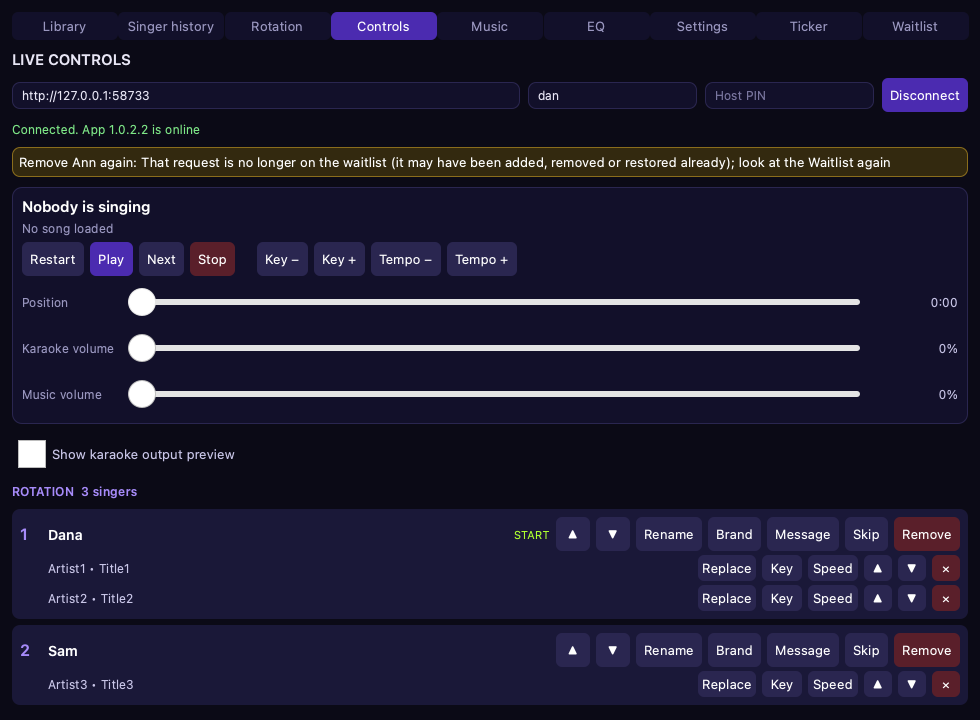
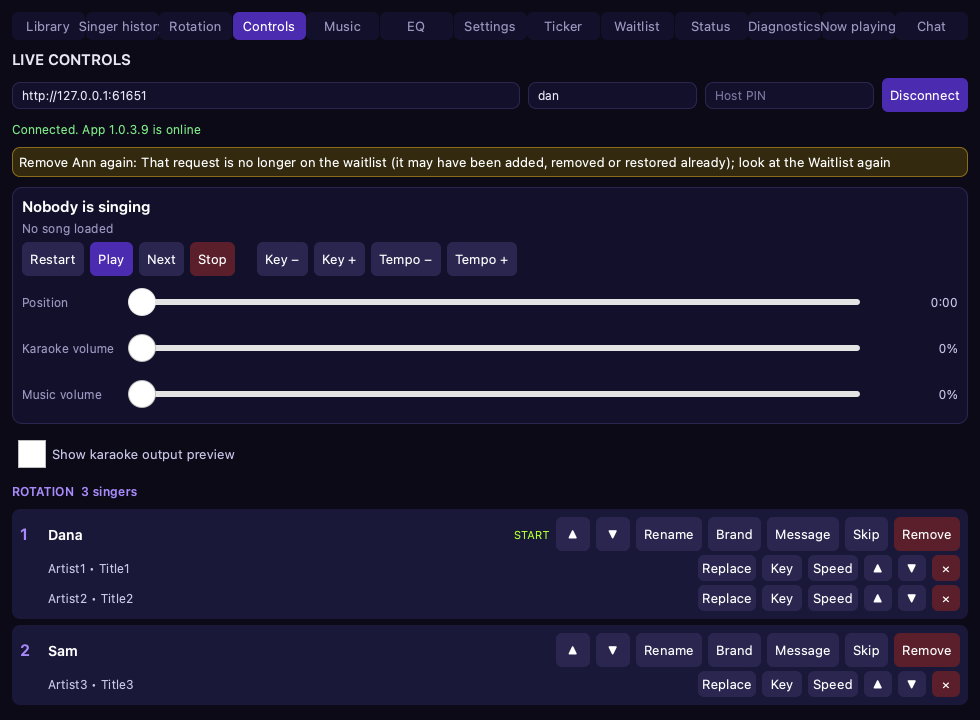
Make the logpack and relay-message shadow tests independent of test order (the once-per-launch 'first check clean' note)

diff --git a/test_relay_msg_shadow.py b/test_relay_msg_shadow.py
@@ -98,6 +98,7 @@ class Compare(unittest.TestCase):
 class Runner(unittest.TestCase):
     def setUp(self):
         reset()
+        rs._clean_noted = True   # the once-per-launch "first check clean" note must not depend on which test ran first
         self.tmp = tempfile.mkdtemp()
         self.log = []
         self.batch = [("state", {"op": "state"}, '{"type":"state","a":1}')]

diff --git a/test_logpack_shadow.py b/test_logpack_shadow.py
@@ -73,6 +73,7 @@ class Compare(unittest.TestCase):
 class RunShadow(unittest.TestCase):
     def setUp(self):
         ls._seen.clear()
+        ls._clean_noted = True   # the once-per-launch "first check clean" note must not depend on which test ran first
         self.lines = []
         self.tmp = tempfile.mkdtemp()
 
